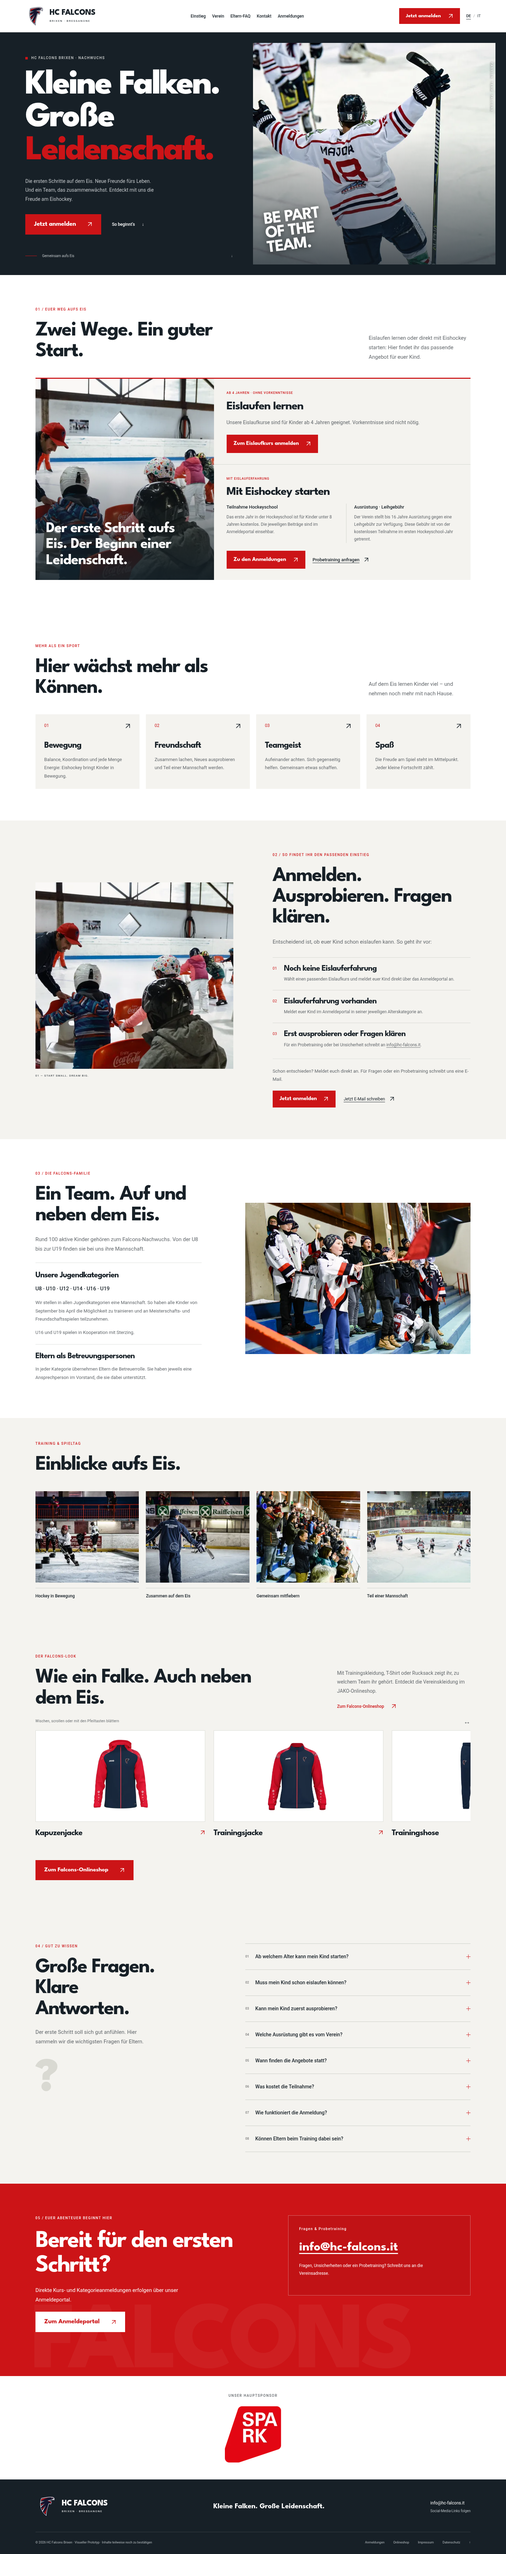
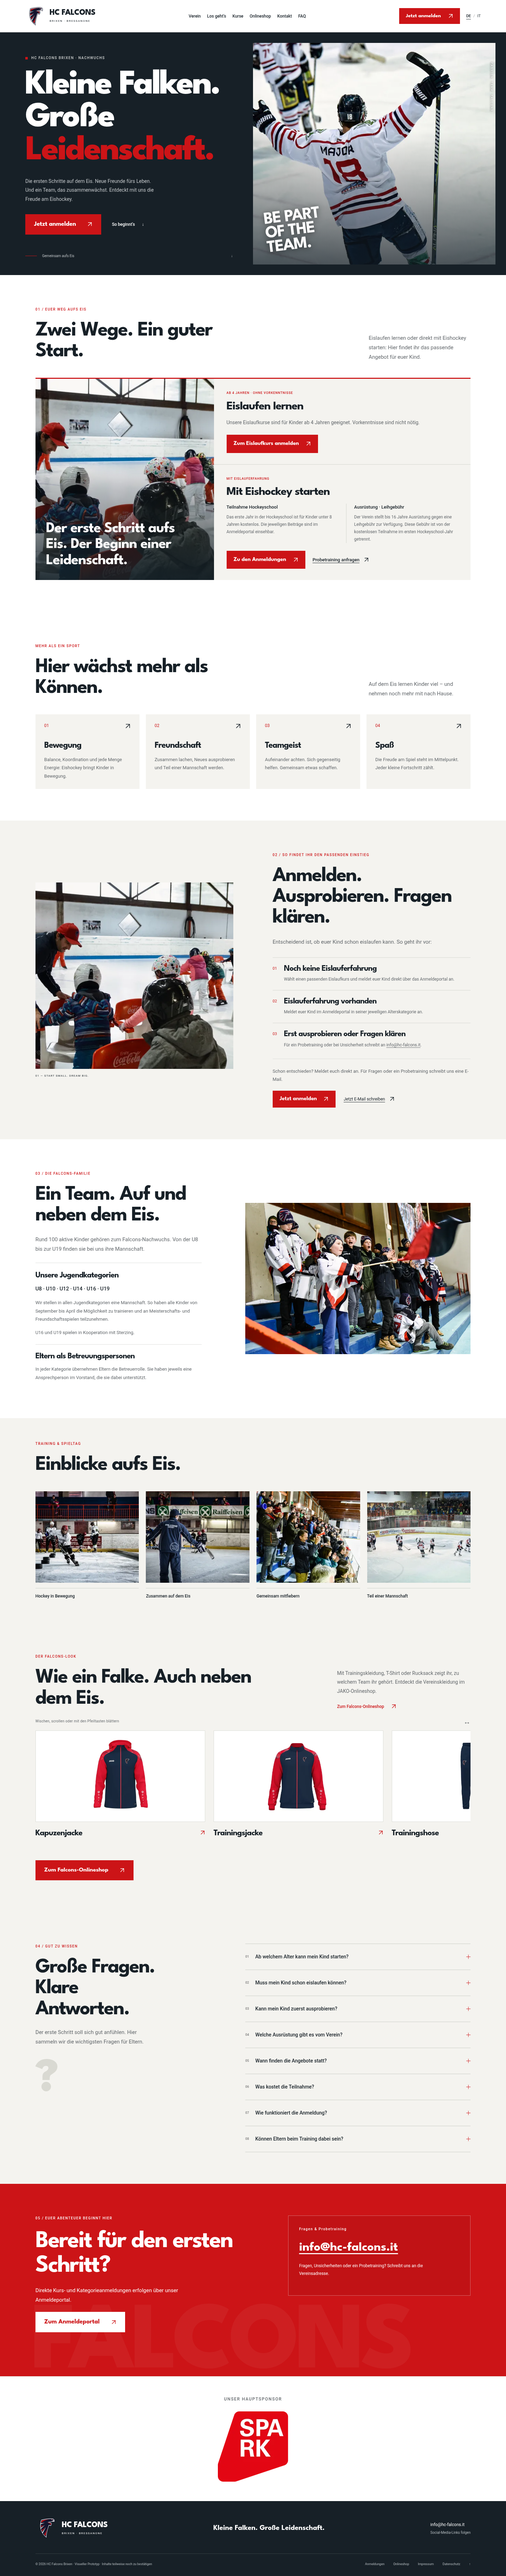
Finalize navigation order and enlarge verified Spark sponsor preview

diff --git a/src/data/content.ts b/src/data/content.ts
@@ -8,10 +8,12 @@ export const content = {
     "shopText": "Mit Trainingskleidung, T-Shirt oder Rucksack zeigt ihr, zu welchem Team ihr gehört. Entdeckt die Vereinskleidung im JAKO-Onlineshop.",
     "shopAction": "Zum Falcons-Onlineshop",
     "nav": [
-      "Einstieg",
       "Verein",
-      "Eltern-FAQ",
-      "Kontakt"
+      "Los geht’s",
+      "Kurse",
+      "Onlineshop",
+      "Kontakt",
+      "FAQ"
     ],
     "join": "Jetzt anmelden",
     "eyebrow": "HC FALCONS BRIXEN · NACHWUCHS",
@@ -164,10 +166,12 @@ export const content = {
     "shopText": "Con abbigliamento da allenamento, T-shirt o zaino mostrate di quale squadra fate parte. Scoprite l’abbigliamento del club nello shop online JAKO.",
     "shopAction": "Allo shop online dei Falcons",
     "nav": [
-      "Primi passi",
       "Il club",
-      "FAQ genitori",
-      "Contatti"
+      "Si parte",
+      "Corsi",
+      "Shop online",
+      "Contatti",
+      "FAQ"
     ],
     "join": "Iscriviti ora",
     "eyebrow": "HC FALCONS BRIXEN · SETTORE GIOVANILE",

diff --git a/src/components/styles.css b/src/components/styles.css
@@ -42,3 +42,5 @@
 @media(max-width:760px){.shop-product-image>img{width:230px}.shop-item-caption h3{font-size:23px}}
 .main-sponsor{display:flex;flex-direction:column;align-items:center;justify-content:center;gap:22px;padding-top:48px;padding-bottom:48px;background:#fff}.main-sponsor .eyebrow{margin:0;color:var(--muted)}.main-sponsor .sponsor-logo{display:block;width:160px;height:160px;object-fit:contain}
 @media(max-width:760px){.main-sponsor{padding-top:40px;padding-bottom:40px;gap:20px}.main-sponsor .sponsor-logo{width:140px;height:140px}}
+.main-sponsor{border-top:1px solid var(--line);padding-top:55px;padding-bottom:55px;gap:25px}.main-sponsor .sponsor-logo{width:200px;height:200px}.main-sponsor .eyebrow{font-size:12px!important;letter-spacing:.14em}
+@media(max-width:760px){.main-sponsor{padding-top:45px;padding-bottom:45px}.main-sponsor .sponsor-logo{width:180px;height:180px}}

diff --git a/README.md b/README.md
@@ -65,3 +65,7 @@ Die beiden Einstiegswege sind als ein zusammenhängender Bild-Text-Block gestalt
 ## Hauptsponsor Spark
 
 Der Bereich unmittelbar vor dem Footer zeigt das vom Nutzer bereitgestellte Spark-Logo mit „Unser Hauptsponsor“ / „Il nostro sponsor principale“. Die RGB-Positivversion aus dem Logo-ZIP liegt unverändert unter `src/assets/sponsors/spark.png`; Astro erzeugt die optimierte Webausgabe. Es wurde keine unbestätigte Sponsor-URL ergänzt. Die bisherigen Partner-Platzhalter sind ersetzt.
+
+## Finale Menüreihenfolge
+
+Deutsch: Verein → Los geht’s → Kurse → Onlineshop → Kontakt → FAQ. Italienisch: Il club → Si parte → Corsi → Shop online → Contatti → FAQ. „Kurse“ führt wie bisher „Anmeldungen“ zum Registrix-Portal; die anderen Punkte führen zu den jeweiligen Seitenabschnitten. Spark steht als Hauptsponsor direkt vor dem Footer. Zusätzlich zum vollständigen Seiten-PNG gibt es `docs/previews/Hauptsponsor-Spark.png` als Detailansicht.
